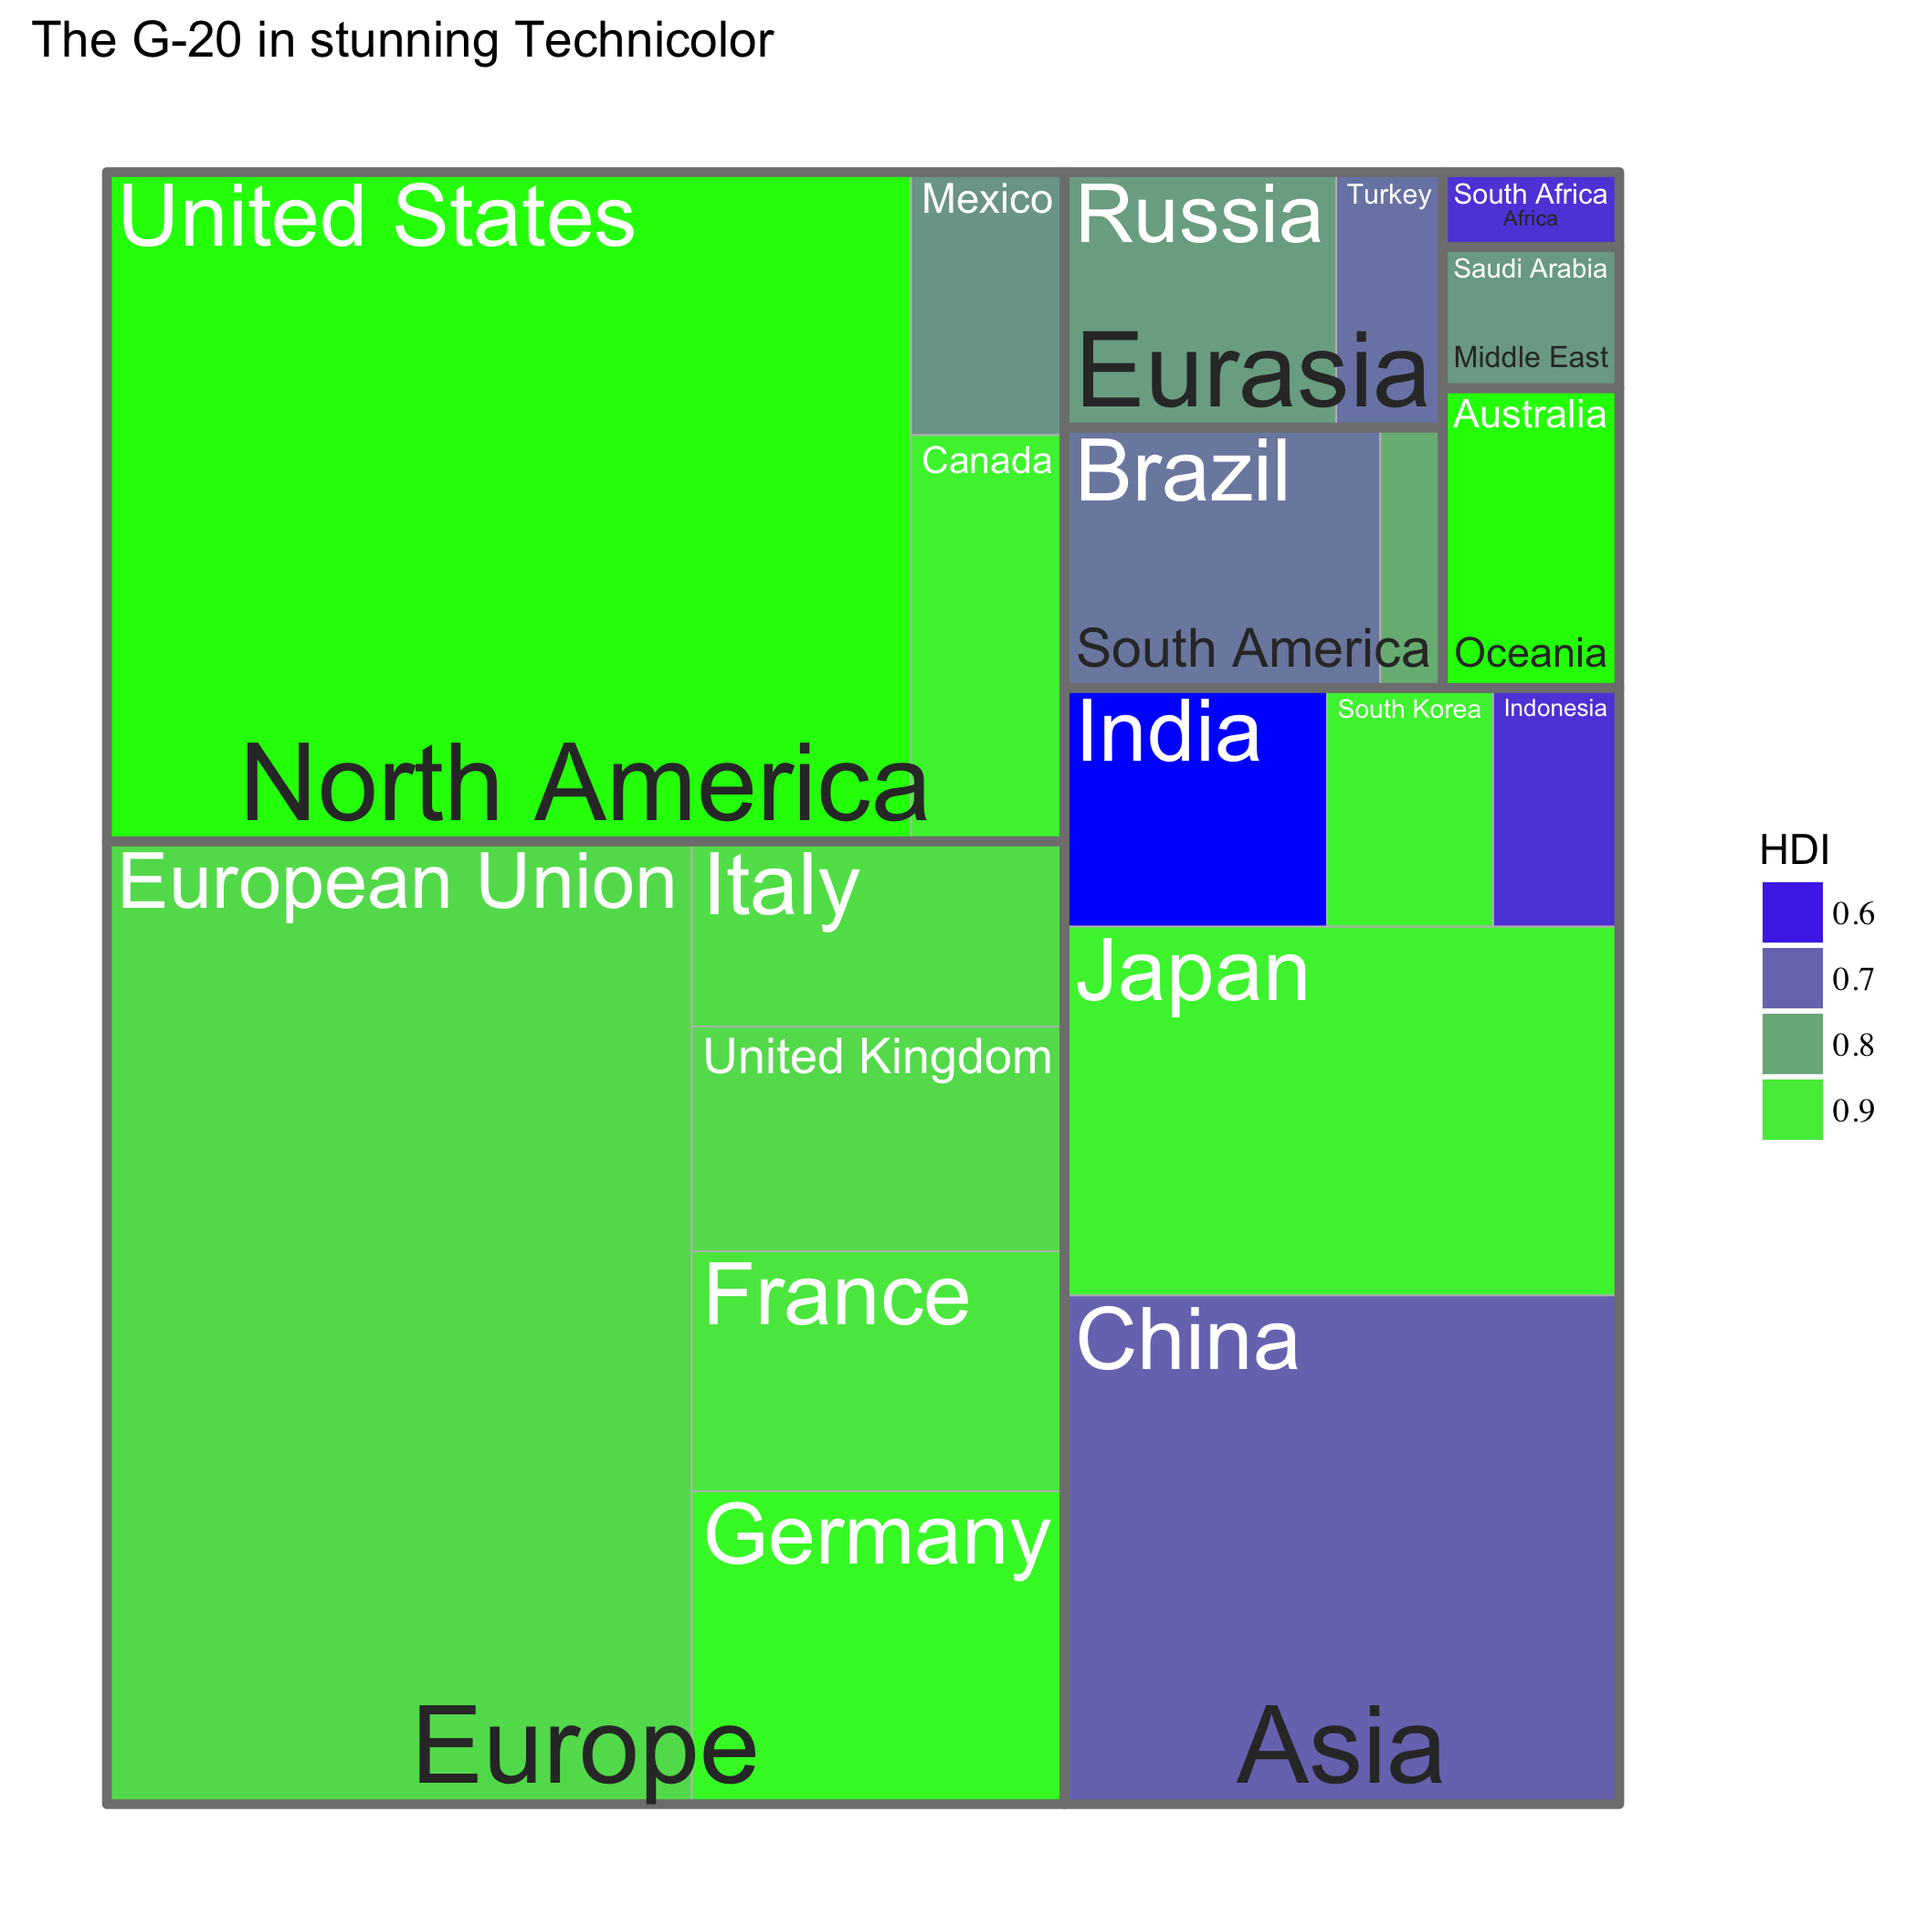
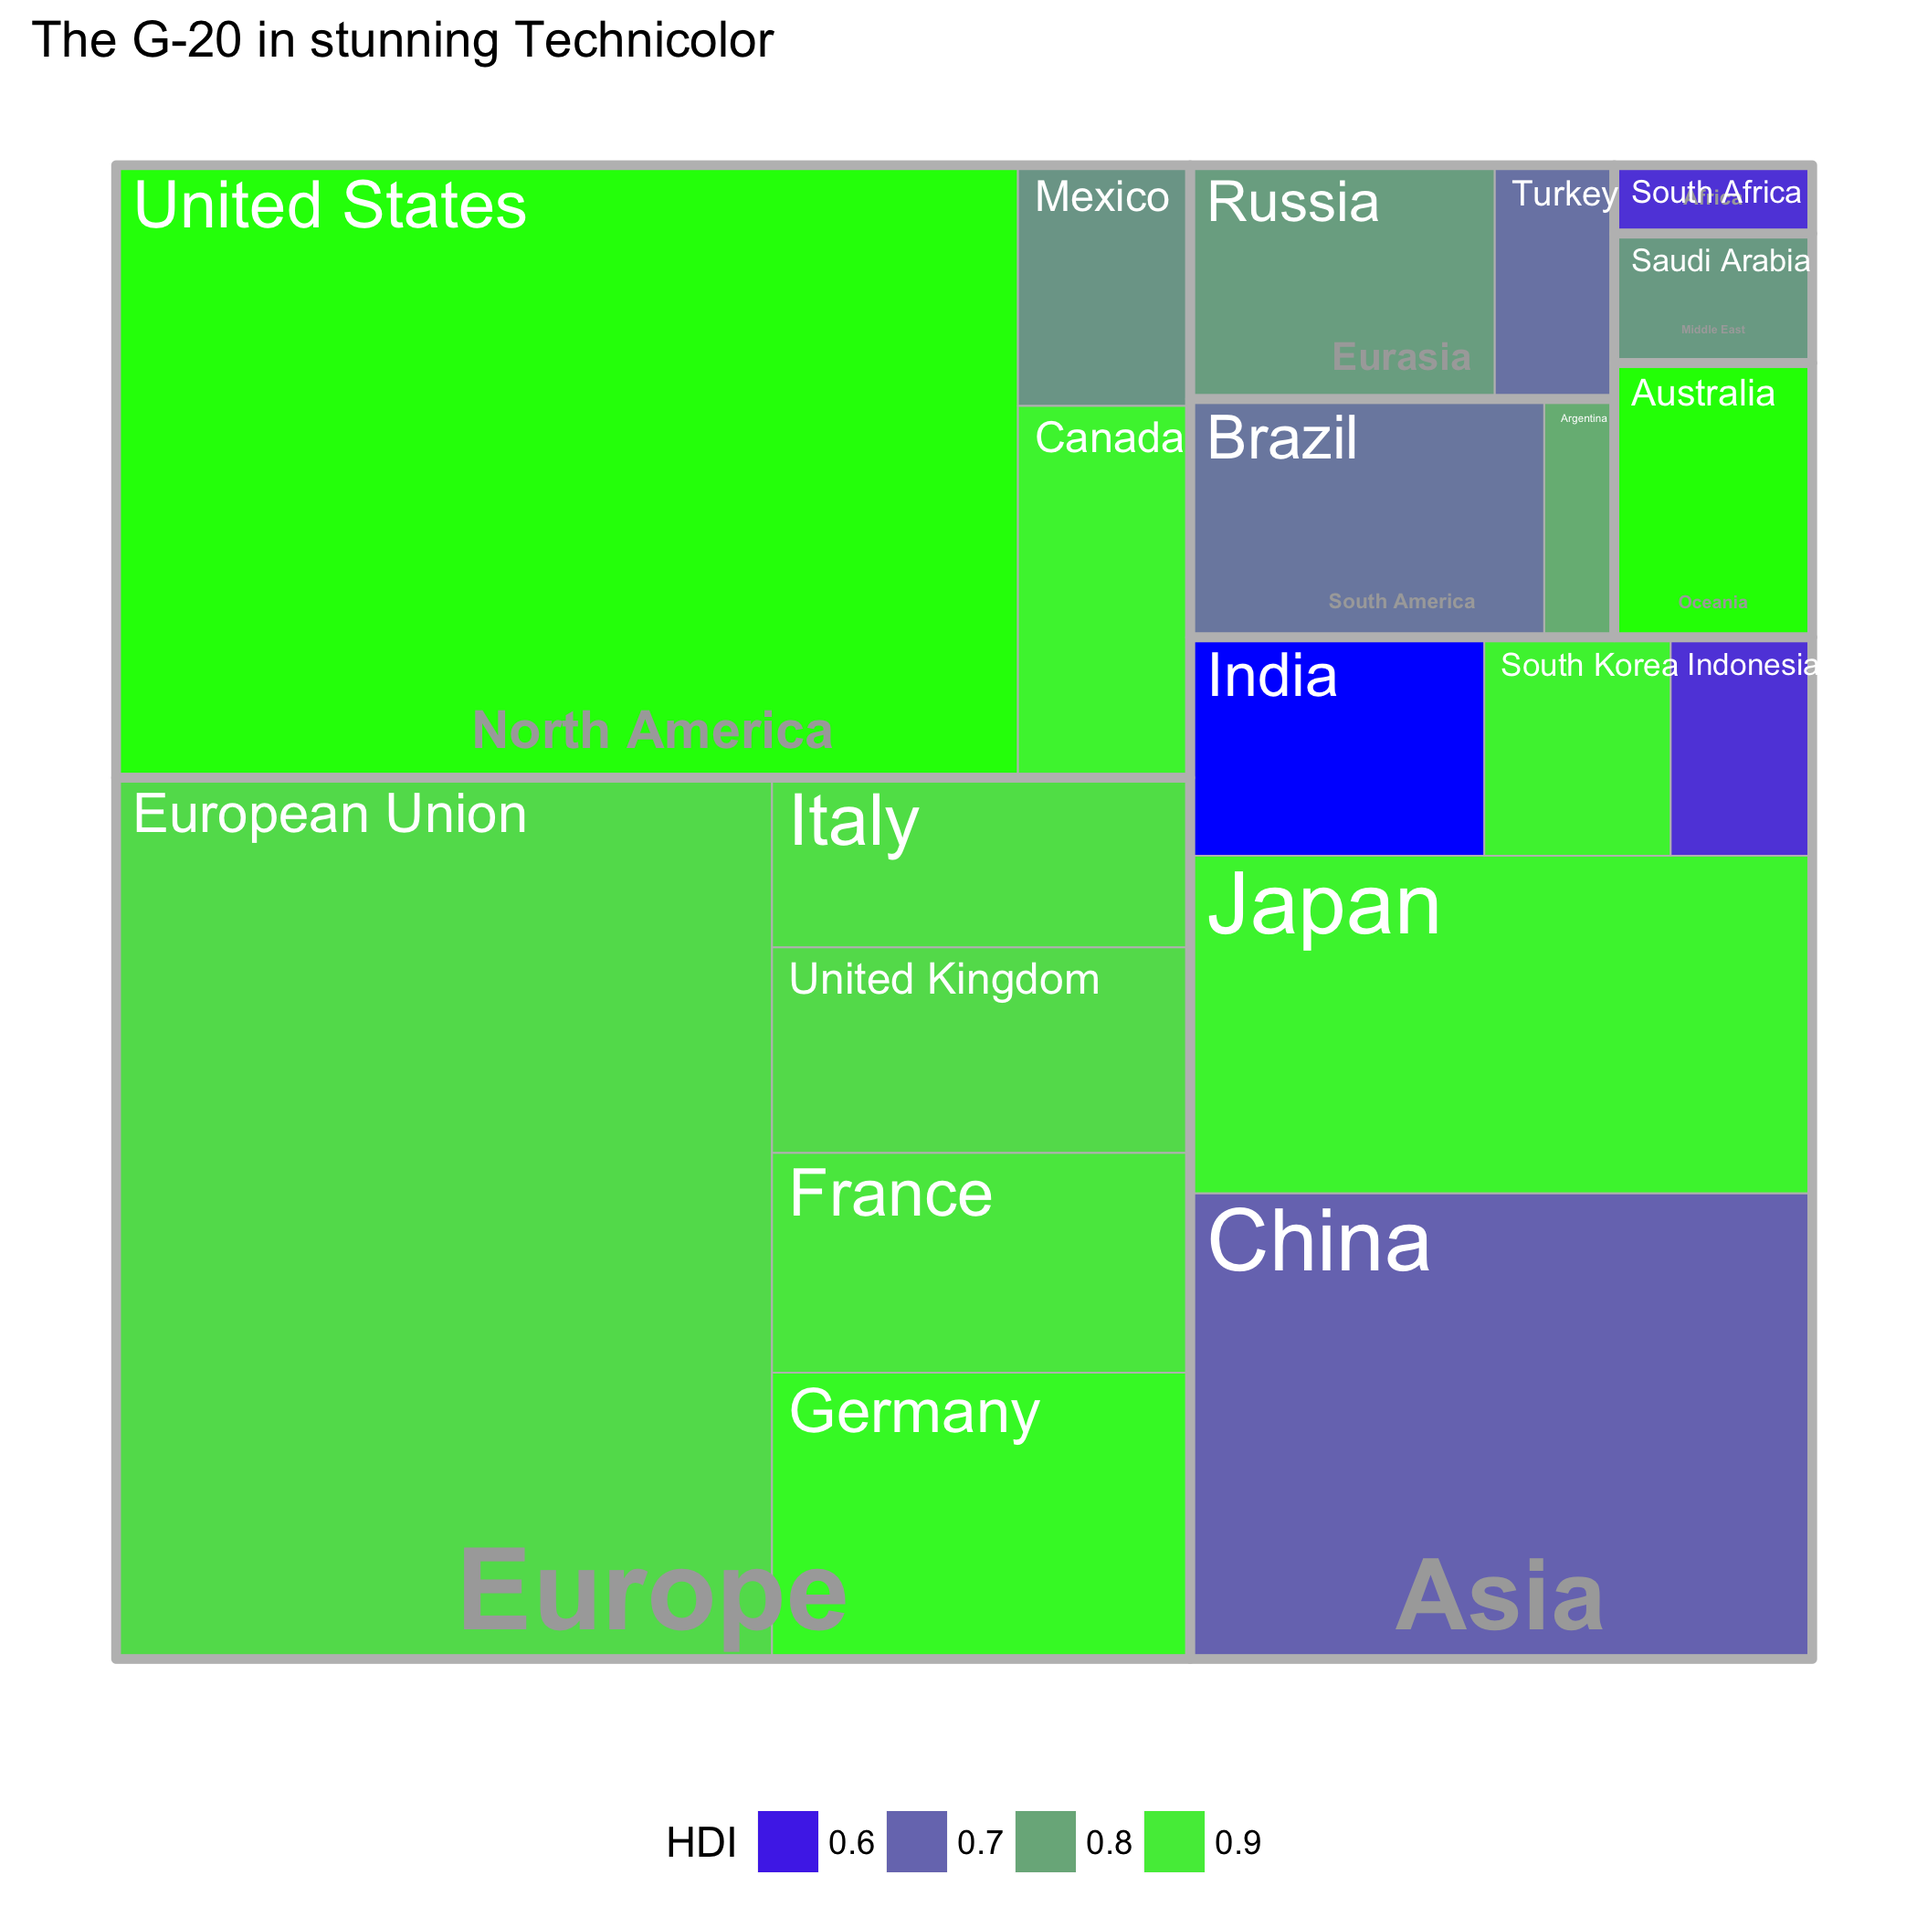
Small tweak to README

diff --git a/README.md b/README.md
@@ -191,7 +191,7 @@ would any ggplot2 plot, with custom scales and other tweaks.
 treeMapPlot <- ggplotify(treeMapCoordinates)
 treeMapPlot <- treeMapPlot + scale_fill_gradient(low = "blue", high = "green",
                                                  guide = "colourbar")
-treeMapPlot <- treeMapPlot + theme(legend.text = element_text(family = "serif"))
+treeMapPlot <- treeMapPlot + theme(legend.position = "bottom")
 treeMapPlot <- treeMapPlot + ggtitle("The G-20 in stunning Technicolor")
 treeMapPlot
 ```
